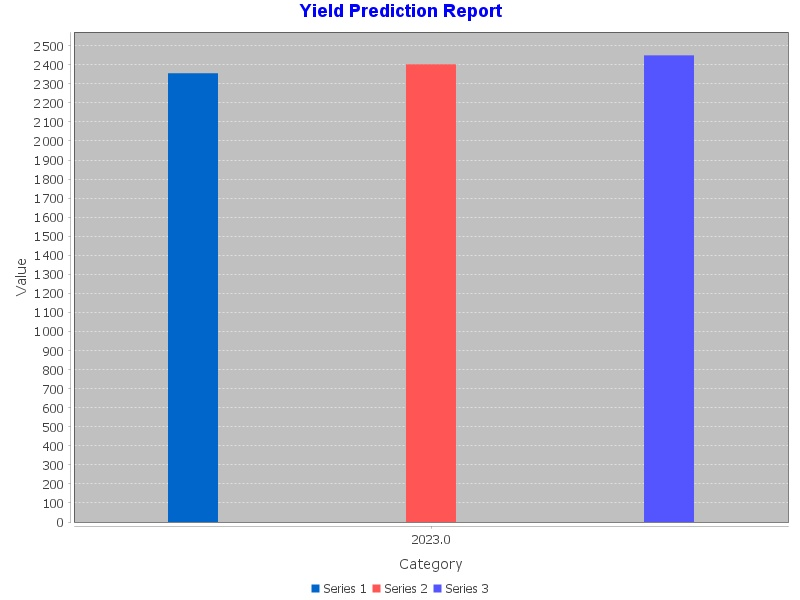
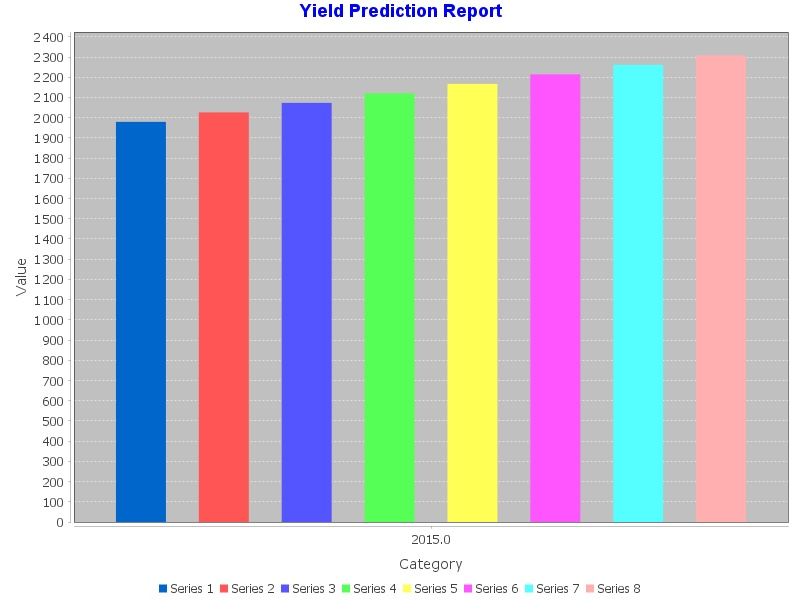
change3

diff --git a/src/main/java/com/agrinexus/analysis/AnalysisEngine.java b/src/main/java/com/agrinexus/analysis/AnalysisEngine.java
@@ -79,13 +79,13 @@ public class AnalysisEngine {
         return forecast.correlation(model, trainingData, target);
     }
 
-    public void generateReport(String reportTitle, double[][] testData, double[] actualValues, ML_Model model) {
-        double[] predictions = new double[testData.length];        
+    public void generateReport(String reportTitle, double[][] trainingData, double[] regressionTargets, ML_Model model) {
+        double[] predictions = new double[trainingData.length];        
         
-        // Make predictions for each test data point
-        for (int i = 0; i < testData.length; i++) {
-            predictions[i] = model.predict(testData[i]);
-            System.out.println("Predicted value for input " + arrayToString(testData[i]) + ": " + predictions[i]);
+        // Make predictions for each training data point
+        for (int i = 0; i < trainingData.length; i++) {
+            predictions[i] = model.predict(trainingData[i]);
+            System.out.println("Predicted value for input " + arrayToString(trainingData[i]) + ": " + predictions[i]);
         }
         
         // Prepare report content
@@ -96,7 +96,7 @@ public class AnalysisEngine {
         reportContent.add("Predictions: ");
         
         for (int i = 0; i < predictions.length; i++) {
-            reportContent.add("Input: " + arrayToString(testData[i]) + " => Prediction: " + predictions[i]);
+            reportContent.add("Input: " + arrayToString(trainingData[i]) + " => Prediction: " + predictions[i]);
         }
         
         // Prepare categories and values for the chart
@@ -104,7 +104,7 @@ public class AnalysisEngine {
         List<double[]> values = new ArrayList<>();
         
         for (int i = 0; i < predictions.length; i++) {
-            categories.add(arrayToString(testData[i]));
+            categories.add(arrayToString(trainingData[i]));
             values.add(new double[] {predictions[i]}); // Wrap the prediction in an array
         }
         

diff --git a/src/main/java/com/agrinexus/ui/YieldDataPanel.java b/src/main/java/com/agrinexus/ui/YieldDataPanel.java
@@ -74,16 +74,7 @@ public class YieldDataPanel extends JPanel {
                         AnalysisEngine analysisEngine = new AnalysisEngine();
                         ML_Model linearRegressionModel = new LinearRegression();
                         linearRegressionModel.trainModel(features, targets);
-        
-                        // Generate a report based on the trained model
-                        double[][] testData = {
-                            {2023},
-                            {2024},
-                            {2025}
-                        };
-                        double[] actualValues = { /* Add actual values if available */ };
-                        analysisEngine.generateReport("Yield Prediction Report", testData, actualValues, linearRegressionModel);
-
+                        analysisEngine.generateReport("Yield Prediction Report", features, targets, linearRegressionModel);
                     } catch (Exception ex) {
                         System.out.println(ex);
                     }
